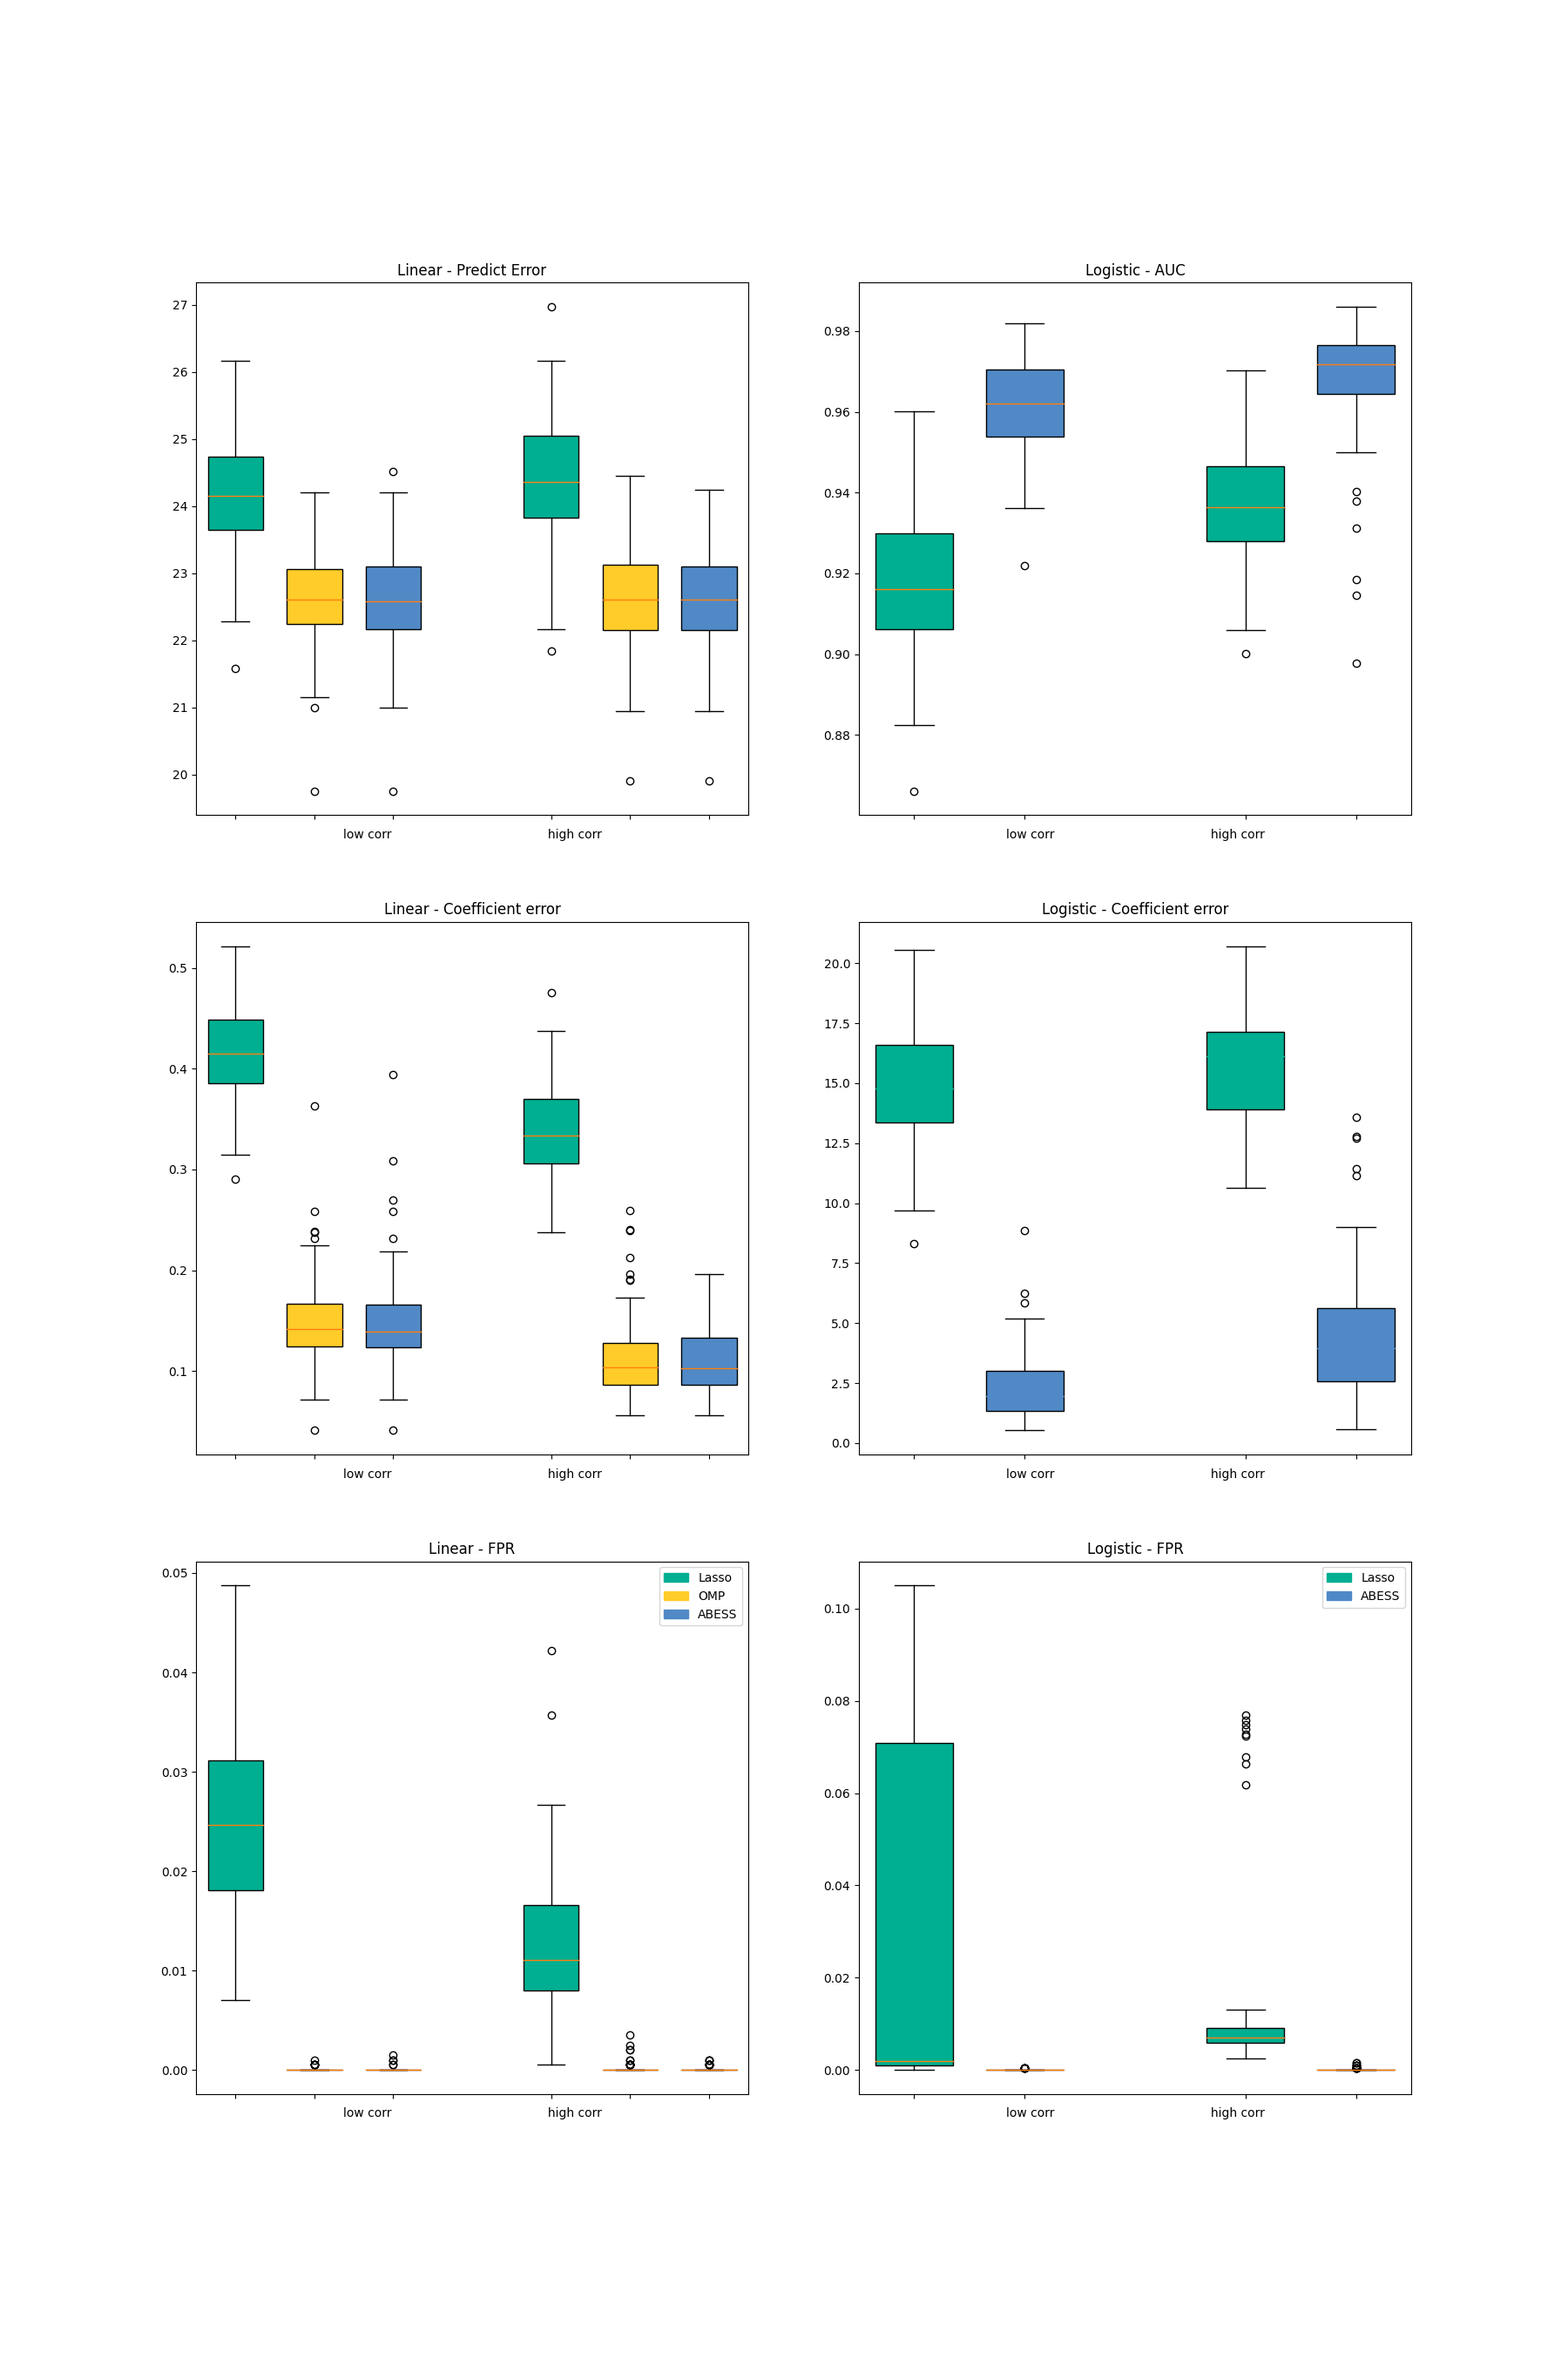
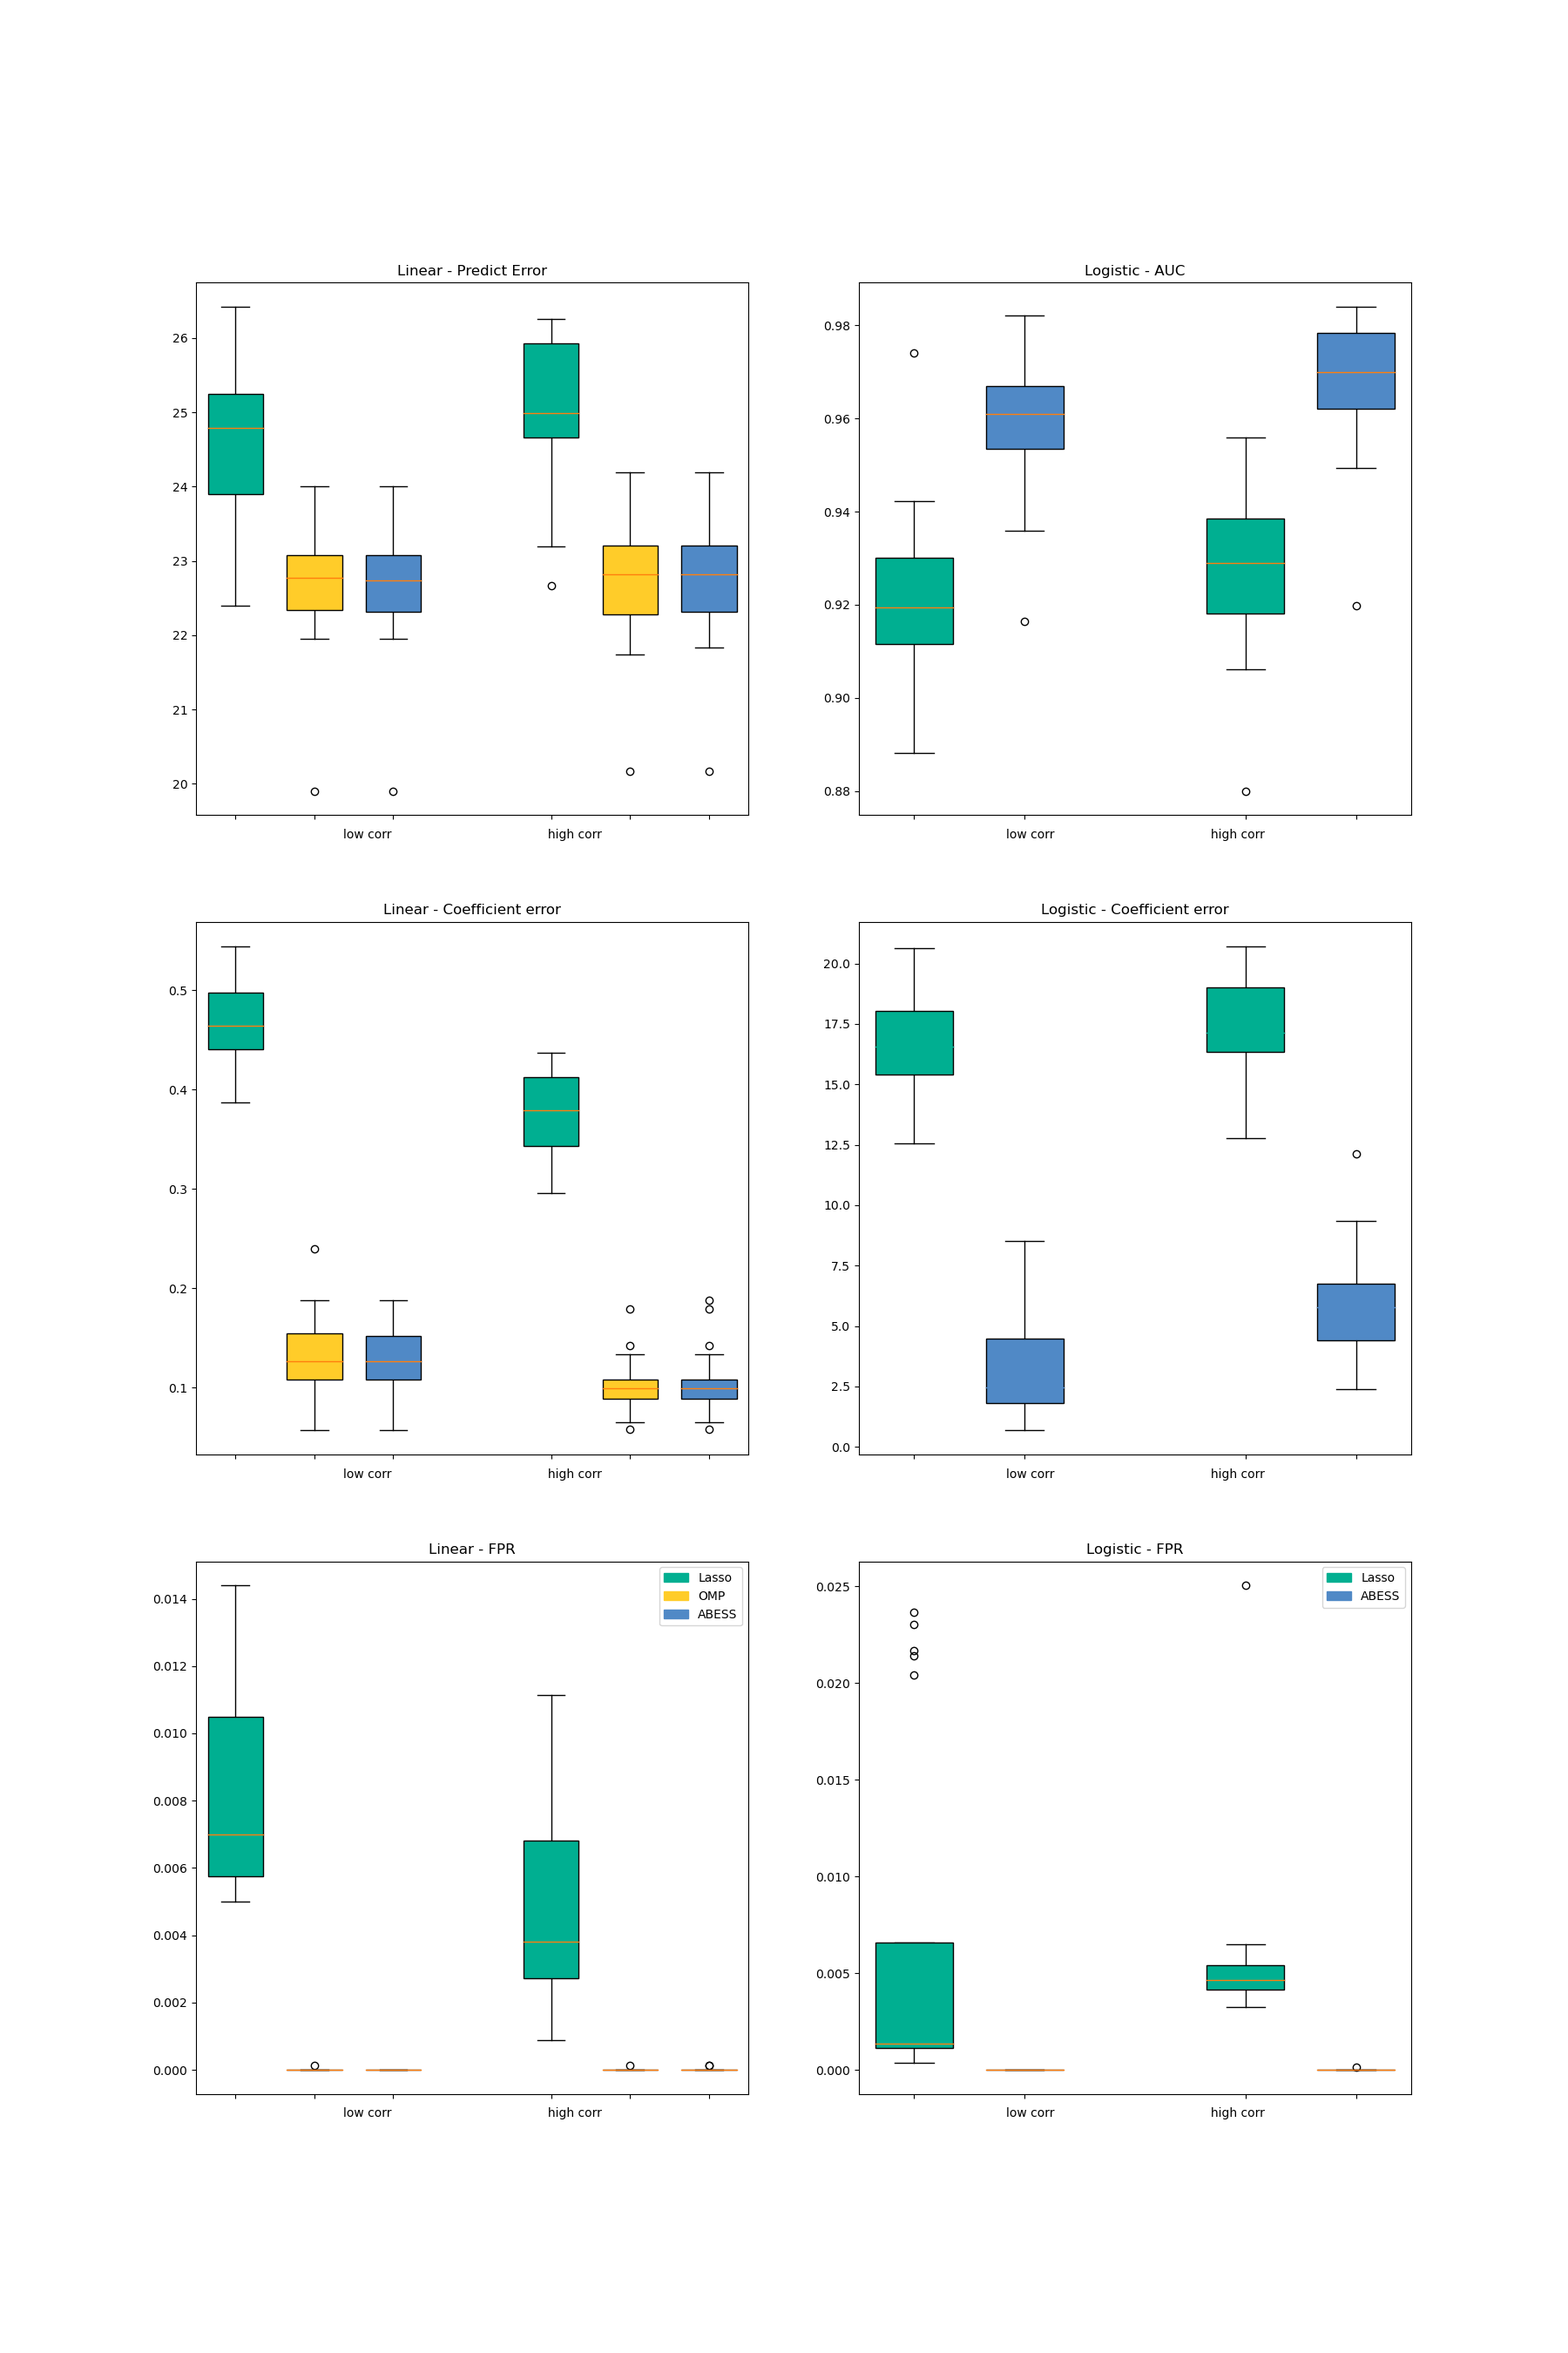
update Python perform & timing

diff --git a/docs/simulation/Python/timings.py b/docs/simulation/Python/timings.py
@@ -41,7 +41,7 @@ plt.bar(x = [1, 2, 3, 5, 6, 7], height = temp[:, 0], yerr = temp[:, 1] * 2,
 plt.xlabel('low corr                                           high corr')
 plt.title('Linear')
 plt.ylabel('time(s)')
-plt.ylim((0,20))
+plt.ylim((0, 8))
 plt.legend(handles=[c1, c2, c3])
 # plt.savefig('./lm_time.png')
 
@@ -55,7 +55,7 @@ lm_time = plt.bar(x = [1, 2, 4, 5], height = temp[:, 0], yerr = temp[:, 1] * 2,
     capsize = 10, tick_label = '', color = color[0:2])
 plt.title('Logistic')
 plt.ylabel('time(s)')
-plt.ylim((0, 20))
+plt.ylim((0, 8))
 plt.legend(handles=[c1, c3])
 plt.xlabel('low corr                                                high corr')
 # plt.savefig('./logi_time.png')

diff --git a/docs/simulation/Python/logi_test.py b/docs/simulation/Python/logi_test.py
@@ -21,8 +21,8 @@ def metrics(coef, pred, test):
     return np.array([auc, coef_err, tpr, fpr, mcc])
 
 n = 500
-p = 2000
-M = 100
+p = 8000
+M = 20
 rho = float(sys.argv[1])
 model_name = "Logistic"
 method = [

diff --git a/docs/simulation/Python/linear_test.py b/docs/simulation/Python/linear_test.py
@@ -25,8 +25,8 @@ def metrics(coef, pred, test):
     return np.array([pred_err, coef_err, tpr, fpr, mcc])
 
 n = 500
-p = 2000
-M = 100
+p = 8000
+M = 20
 rho = float(sys.argv[1])
 model_name = "Lm"
 method = [

diff --git a/docs/Tutorial/power_of_abess.md b/docs/Tutorial/power_of_abess.md
@@ -10,11 +10,11 @@ Both packages are compared in three aspects including the prediction performance
 
 - The prediction performance of the linear model is measured by $||y−\hat{y}||_2$ on a test set and for logistic regression this is measured by the area under the ROC Curve (AUC). 
 - For the variable selection performance, we compute the coefficient error $||\beta - \hat{\beta}||_2$, true positive rate (TPR, which is the proportion of varibales in the active set that are correctly identified) and the false positive rate (FPR, which is the proportion of the varibales in the inactive set that are falsely identified as a signal). 
-- Timings of the CPU execution are recorded in seconds and all the performances are averaged over 100 replications on a sequence of 100 regularization parameters.
+- Timings of the CPU execution are recorded in seconds and all the performances are averaged over 20 replications on a sequence of 100 regularization parameters.
 
-The simulated data are made by `abess.datasets.make_glm_data()`. The number of predictors is $p=2000$ and the size of data is $n=500$. The true coefficient contains $k=10$ nonzero entries uniformly distributed in $[b,B]$. For linear (gaussian) data, we set $b = 5\sqrt{2\ln p / n}$ and $B = 100b$. For logistic (binomial) data, we set $b = 10\sqrt{2\ln p / n}$ and $B = 5b$. In each regression, we test for both low ($\rho=0.1$) and high correlation ($\rho=0.7$) scenarios. What's more, a random noise generated from a standard Gaussian distribution is added to the linear predictor $x′β$ for linear regression. 
+The simulated data are made by `abess.datasets.make_glm_data()`. The number of predictors is $p=8000$ and the size of data is $n=500$. The true coefficient contains $k=10$ nonzero entries uniformly distributed in $[b,B]$. For linear (gaussian) data, we set $b = 5\sqrt{2\ln p / n}$ and $B = 100b$. For logistic (binomial) data, we set $b = 10\sqrt{2\ln p / n}$ and $B = 5b$. In each regression, we test for both low ($\rho=0.1$) and high correlation ($\rho=0.7$) scenarios. What's more, a random noise generated from a standard Gaussian distribution is added to the linear predictor $x′β$ for linear regression. 
 
-All experiments are evaluated on an Intel(R) Core(TM) i5-8250U CPU @ 1.60GHz and under Python 3.8.10. 
+All experiments are evaluated on an *TODO*. 
 
 ```bash
 $ python abess/docs/simulation/Python/perform.py
